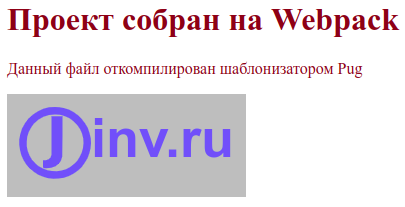
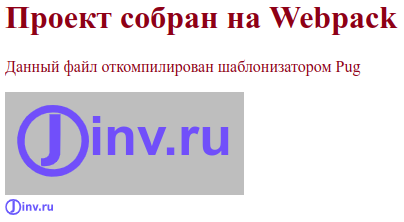
Update article

Changed region(s): [[0.0, 0.4058, 0.6238, 0.9855], [0.0, 0.029, 1.0, 0.2029], [0.0, 0.2609, 0.8911, 0.3768]]

diff --git a/nastroyka-webpack.md b/nastroyka-webpack.md
@@ -666,9 +666,10 @@ npm run serve
 
 ## Загрузка изображений
 
+Здесь мы настроим webpack для работы с изображениями в формате PNG, JPG, GIF и SVG.
 Начиная с webpack 5, вместо загрузчиков изображений, значков, шрифтов и т. д. используется встроенный [Asset Modules](https://webpack.js.org/guides/asset-modules/). До webpack 5 было принято использовать [raw-loader](https://v4.webpack.js.org/loaders/raw-loader/), [url-loader](https://v4.webpack.js.org/loaders/url-loader/) и [file-loader](https://v4.webpack.js.org/loaders/file-loader/).
 
-Для поддержки рисунков настроим `webpack.config.js`:
+Для поддержки изображений устанавливать ничего не нужно, а лишь требуется настроить `webpack.config.js`:
 
 ```js
 const HtmlWebpackPlugin = require('html-webpack-plugin');
@@ -679,6 +680,7 @@ module.exports = {
   output: {
     path: path.join(__dirname, 'dist'),
     filename: 'index.[hash].js',
++   assetModuleFilename: path.join('images', '[name].[hash][ext]'),
   },
   plugins: [
     new HtmlWebpackPlugin({
@@ -706,14 +708,37 @@ module.exports = {
         use: ['style-loader', 'css-loader', 'postcss-loader', 'sass-loader'],
       },
 +     {
-+       test: /\.(png|svg|jpg|jpeg|gif)$/i,
++       test: /\.(png|jpg|jpeg|gif)$/i,
 +       type: 'asset/resource',
++     },
++     {
++       test: /\.svg$/,
++       type: 'asset/resource',
++       generator: {
++         filename: path.join('icons', '[name].[hash][ext]'),
++       },
++       // use: 'svgo-loader'
 +     },
     ],
   },
 };
-
 ```
+
+- `assetModuleFilename` - позволяет указать выходной каталог и шаблон имен файлов, для всех модулей, которые соответствуют правилу `type: 'asset/resource'`. Если assetModuleFilename не указан, то, по умолчанию, каталогом будет `dist`, а имя файла будет `[hash][ext]`.
+
+- `[ext]` - шаблон расширения файла.
+
+- `generator.filename` - позволяет переопределить `assetModuleFilename` для конкретного asset-правила. В данном случае, svg-файлы будут выводиться в каталог `dist/icons`
+
+- `type` имеет четыре типа asset:
+
+  - `asset/resource` - работает так же, как и загрузчик [file-loader](https://github.com/webpack-contrib/file-loader), а именно, все модули, которые соответствуют правилу `type: 'asset/resource'` будут выводится в указанный с помощью `assetModuleFilename` каталог.
+
+  - `asset/inline` работает как загрузчик [url-loader](https://v4.webpack.js.org/loaders/url-loader/). Все модули, соответствующие правилу `type: 'asset/inline'`, будут встроены в код бандла как [Data URL](https://developer.mozilla.org/ru/docs/Web/HTTP/Basics_of_HTTP/Data_URLs).
+
+  - `asset/source` похож на работу загрузчика [raw-loader](https://github.com/webpack-contrib/raw-loader). Все модули, соответствующие правилу `type: 'asset/source'`, будут встроены без каких-либо преобразований (как есть).
+
+  - `asset` объединяет `asset/resource` и `asset/inline`. Он работает следующим образом: если размер модуля больше 8 КБ, то он работает как `asset/resource`, в противном случае - как `asset/inline`. Размер 8 КБ задан по умолчанию, но его можно изменить с помощью свойства [parser.dataUrlCondition.maxSize](https://webpack.js.org/guides/asset-modules/#general-asset-type).
 
 Создадим каталог `src/images` и поместим в него любое изображение с именем `image.png`
 
@@ -727,7 +752,12 @@ html(lang= 'ru')
     title= 'Быстрый запуск Webpack'
   body
     p Данный файл откомпилирован шаблонизатором Pug
-    img(src=require('./images/image.png') alt='Загрузка изображений с помощью Webpack')
+    .logo__img_png
+      img(src=require('./images/image.png') alt='Загрузка PNG изображений с помощью Webpack')
+    .logo__img_svg
+      img(src=require('./images/logo.svg'), alt='Загрузка SVG изображений с помощью Webpack')
+
+
 ```
 
 Запустим в терминале команду:
@@ -736,19 +766,25 @@ html(lang= 'ru')
 npm run serve
 ```
 
-В окне браузера мы увидим, что на нашей странице появился рисунок:
+В окне браузера мы увидим, что на нашей странице появилось два рисунка:
 
 ![Загрузка изображений с помощью Webpack](add-image.png)
 
-## Загрузка SVG изображений
+## Оптимизация изображений
 
-установим svgo
+Многие изображения могут быть сжаты без заметного ухудшения качества, что даст выигрыш в скорости загрузки приложения. Для этого придуманы инструменты оптимизации изображений.
+
+### Оптимизация SVG изображений
+
+Векторные изображения, к которым относится формат SVG, можно неограниченно масштабировать без потери качества. SVG - это текстовый язык разметки, а SVG-файлы можно редактировать при помощи обычных текстовых редакторов. Если в SVG изображении не сильно много мелких деталей, то SVG-файлы обычно получаются меньше по размеру, чем сравнимые по качеству изображения в форматах JPEG или GIF, а также SVG-файлы хорошо поддаются сжатию. SVG широко применяется во фронтенде и для него придумано много инструментов. Одним из таких инструментов является минификатор [svgo](https://github.com/svg/svgo), который удаляет лишний код в разметке и тем самым уменьшает размер файла SVG.
+
+Установим svgo:
 
 ```
 npm i -D svgo
 ```
 
-Создадим и настроим svgo.config.js
+Создадим в корне проекта файл `svgo.config.js` и настроим его:
 
 ```js
 module.exports = {
@@ -776,9 +812,11 @@ module.exports = {
 };
 ```
 
-## Оптимизация изображений
+Теперь, чтобы заработало сжатие для SVG файлов, мы настроим совместную работу svgo и imagemin с помощью плагина [imagemin-svgo](https://github.com/imagemin/imagemin-svgo).Перейдем в следующий параграф и настроим imagemin и необходимые плагины для сжатия изображений.
 
-Многие изображения могут быть сжаты без заметного ухудшения качества, что даст выигрыш в скорости загрузки приложения. Для этого существуют инструменты оптимизации изображений, одним из них является минификатор [imagemin](https://github.com/imagemin/imagemin). Для webpack существует [ImageMinimizerWebpackPlugin](https://webpack.js.org/plugins/image-minimizer-webpack-plugin/#optimize-with-imagemin) - загрузчик и плагин для оптимизации изображений с помощью imagemin.
+### Оптимизация растровых изображений
+
+Для оптимизации растровых изображений широко применяется минификатор [imagemin](https://github.com/imagemin/imagemin). Для webpack существует [ImageMinimizerWebpackPlugin](https://webpack.js.org/plugins/image-minimizer-webpack-plugin/#optimize-with-imagemin) - это загрузчик и плагин для оптимизации изображений с помощью imagemin.
 
 Сначала, установим плагин `image-minimizer-webpack-plugin` и минификатор `imagemin`:
 
@@ -786,7 +824,7 @@ module.exports = {
 npm i -D image-minimizer-webpack-plugin imagemin
 ```
 
-Затем, для оптимизации изображений без потерь качества, установим следующие рекомендуемые плагины imagemin:
+Затем, для оптимизации изображений без потерь качества, установим следующие рекомендуемые плагины:
 
 ```
 npm i -D imagemin-gifsicle imagemin-jpegtran imagemin-optipng imagemin-svgo
